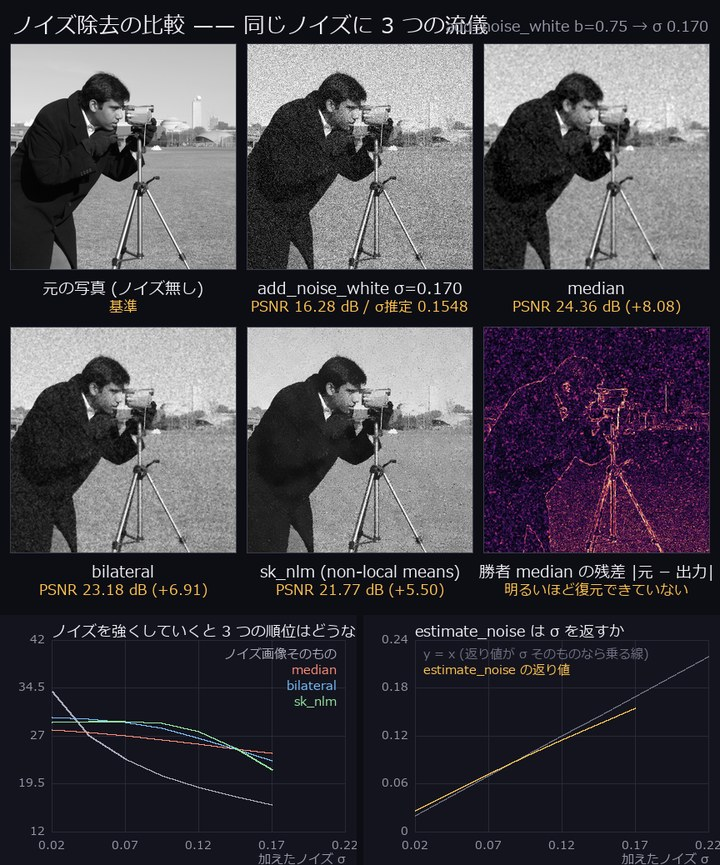
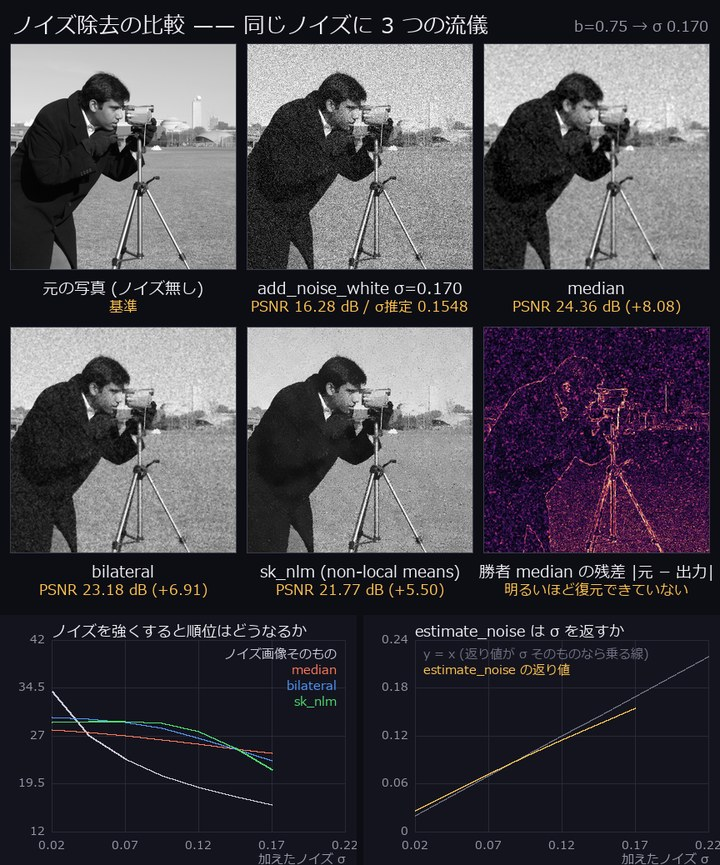
auto: wings.json 編集前 (2026-09-02 04:37)

diff --git a/tools/gen_wing2d_gallery.py b/tools/gen_wing2d_gallery.py
@@ -722,7 +722,7 @@ def subject_denoise_compare(log=print) -> dict:
              for k, lab in (("noisy", "ノイズ画像そのもの"), ("median", "median"),
                             ("bilateral", "bilateral"), ("sk_nlm", "sk_nlm"))],
             grid.shape[1] // 2 - 4, 300, xlim=(0.02, 0.22), ylim=(12, 42),
-            title="ノイズを強くしていくと 3 つの順位はどうなるか",
+            title="ノイズを強くすると順位はどうなるか",
             xlabel="加えたノイズ σ", legend_pos="tr")
         # ★2026-09-02: estimate_noise は σ の単位で返るようになった (以前は
         #   σ>=0.08 で 1.0 に張り付き、3 倍違う σ に同じ値を返していた)。
